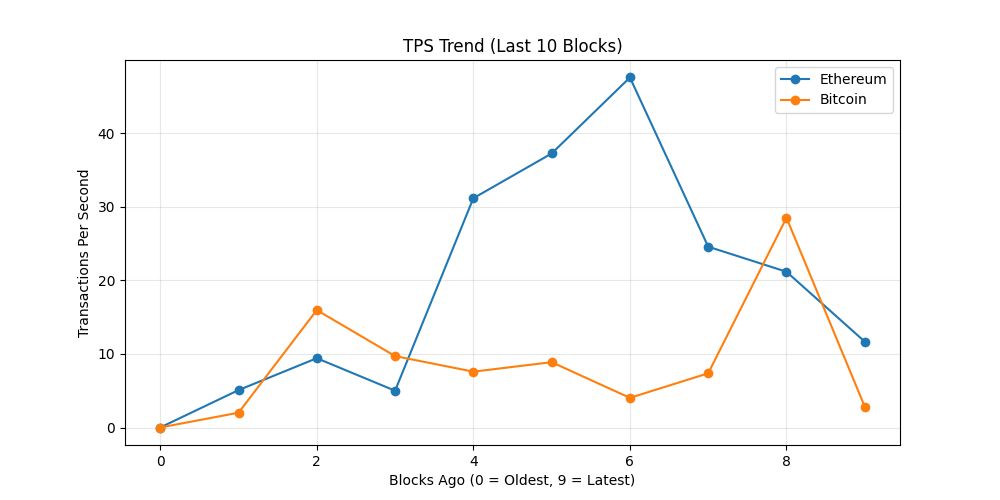
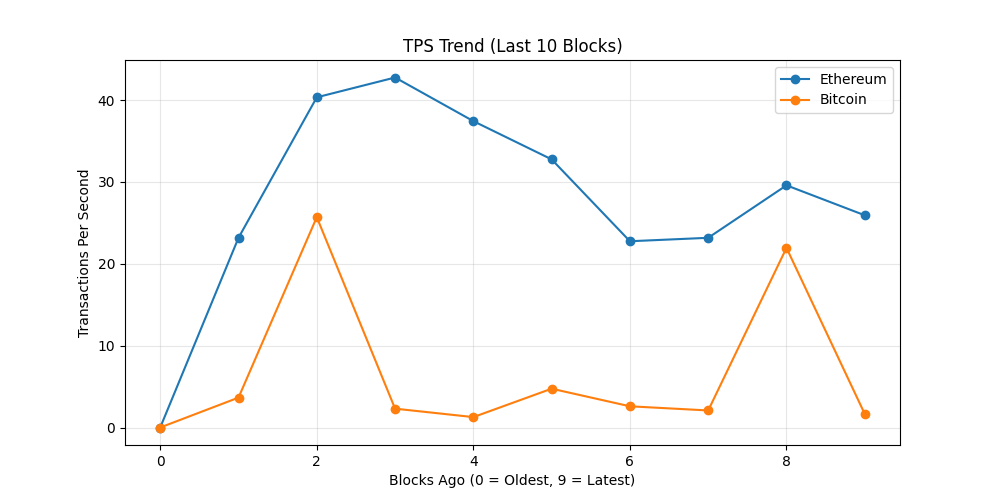
chore: update on-chain dashboard

diff --git a/README.md b/README.md
@@ -19,7 +19,7 @@ The README itself acts as the dashboard and is regenerated automatically on a 6 
 demonstrating a production-style, infrastructure-focused observability workflow rather
 than a traditional UI-driven approach.
 
-_Last updated: 2026-01-27 18:57 UTC_
+_Last updated: 2026-01-28 02:32 UTC_
 
 ## API Usage (GetBlock.io)
 - Calls used: **24**
@@ -27,8 +27,8 @@ _Last updated: 2026-01-27 18:57 UTC_
 ## Network Metrics
 | Chain | Block Height | TX Count | TPS (10 blk avg) | Block Util | Avg Fee |
 |------|-------------|----------|------------------|------------|---------|
-| Ethereum | 24328106 | 140 | 11.67 | 28.39% | 0.1 Gwei |
-| Bitcoin | 934005 | 3935 | 2.83 | 99.8% | N/A |
+| Ethereum | 24330370 | 311 | 25.92 | 38.69% | 0.1 Gwei |
+| Bitcoin | 934041 | 3512 | 1.65 | 99.79% | N/A |
 
 ## Visuals
 ### Transactions Trend
@@ -43,11 +43,11 @@ _Last updated: 2026-01-27 18:57 UTC_
 ## Whale Alerts (latest block)
 - Transaction hashes are truncated for readability.
 - Full hashes are available in `dashboards/metrics.json`
-- Bitcoin | 143.01 BTC | `d55b01ea415e…`
-- Bitcoin | 263.29 BTC | `1c0b429c9fb9…`
-- Bitcoin | 115.81 BTC | `d5a524ee3618…`
-- Bitcoin | 458.3 BTC | `429740d874e5…`
-- Bitcoin | 511.53 BTC | `0a7cea50e00a…`
+- Bitcoin | 176.32 BTC | `2688c4d94d4b…`
+- Bitcoin | 390.5 BTC | `4ab4757b3c98…`
+- Bitcoin | 124.74 BTC | `e4426576b25c…`
+- Bitcoin | 124.43 BTC | `fecea29d1dfb…`
+- Bitcoin | 501.61 BTC | `f2ae97aa3f63…`
 
 ## Run locally
 
